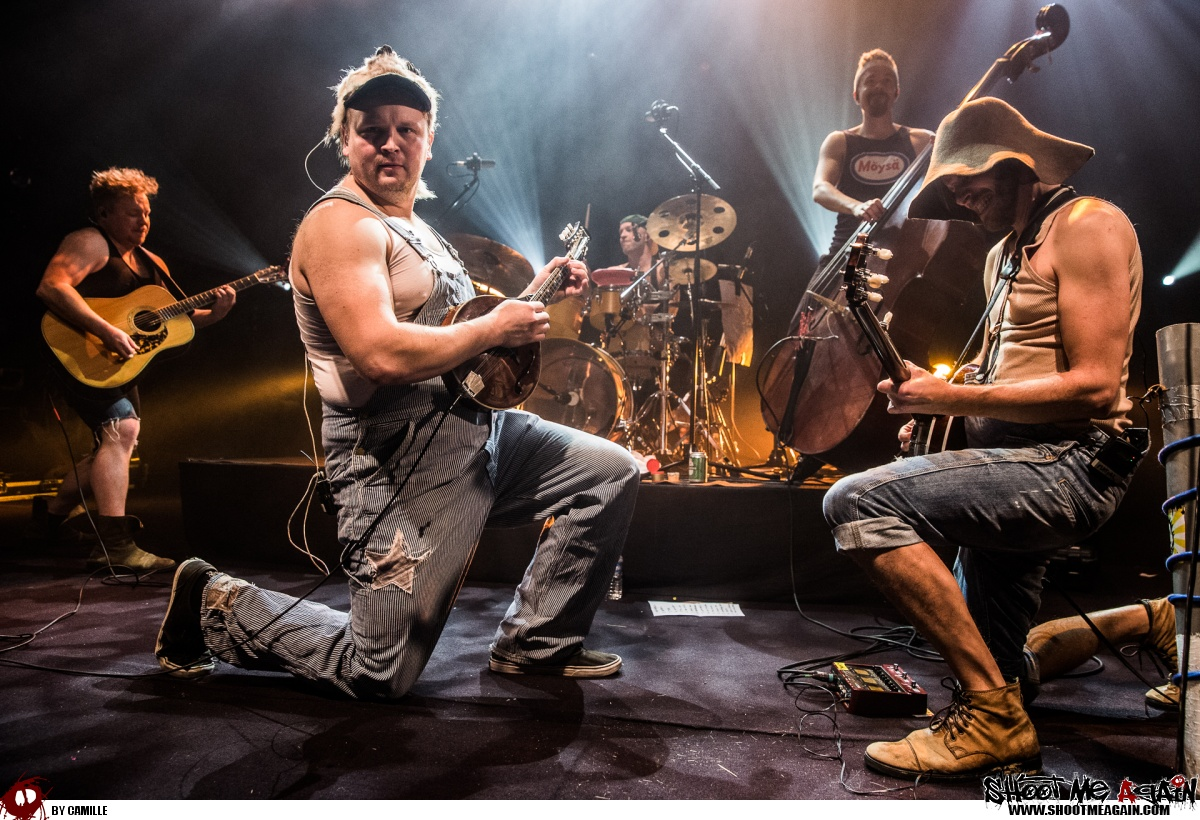
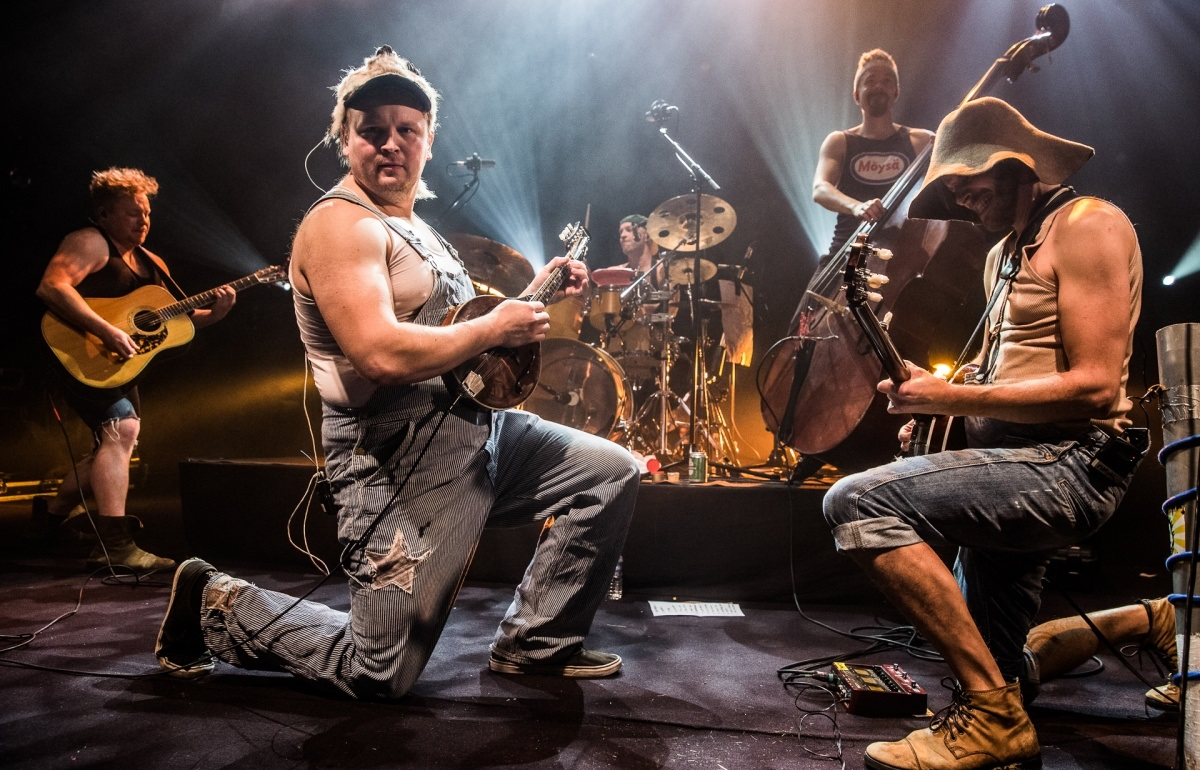
Rename opening.jpg in landing.jpg, use a better image for background 3

diff --git a/index.html b/index.html
@@ -474,7 +474,7 @@
 
 	<!-- The gallery section use a modified version the bootstrap carousel, credit: https://getbootstrap.com/docs/4.0/components/carousel/  -->
 
-	<section class="gallery bg-clear text-center">
+	<section class="gallery bg-clear">
 		<div class="scroll-to" id="gallery"></div>
 		<h2 class="section-header">Gallery</h2>
 		<div class="container">

diff --git a/assets/css/style.css b/assets/css/style.css
@@ -101,7 +101,7 @@ body {
 }
 
 .one {
-    background-image: url("../images/opening.jpg");
+    background-image: url("../images/landing.jpg");
     
 }
 
